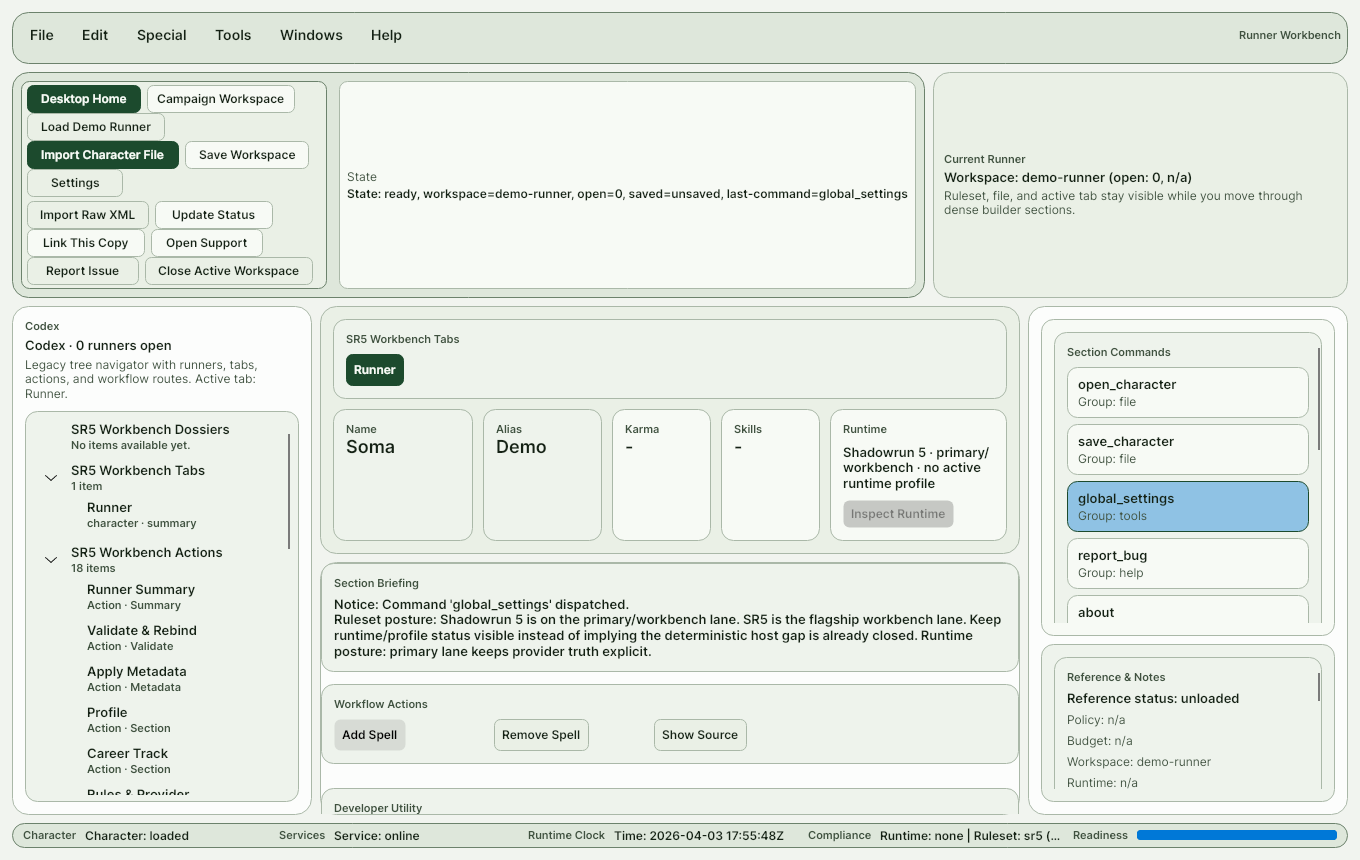
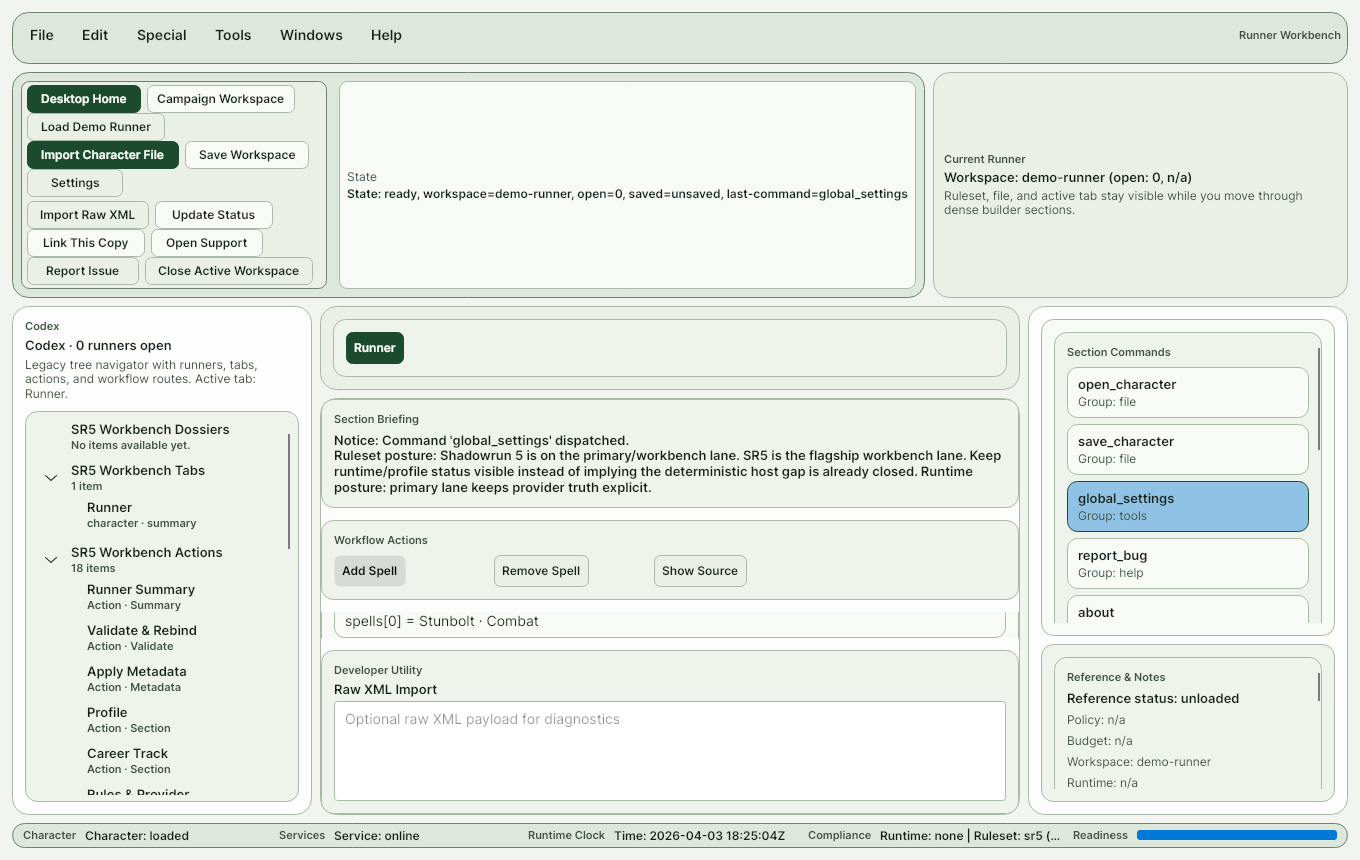
harden desktop gate registry-root resolution and screenshot evidence copy

diff --git a/Chummer.Tests/Compliance/MigrationComplianceTests.cs b/Chummer.Tests/Compliance/MigrationComplianceTests.cs
@@ -3377,7 +3377,10 @@ public class MigrationComplianceTests
 
         StringAssert.Contains(
             executableGateScriptText,
-            "canonical_release_channel_path=\"/docker/chummercomplete/chummer-hub-registry/.codex-studio/published/RELEASE_CHANNEL.generated.json\"");
+            "hub_registry_root=\"${CHUMMER_HUB_REGISTRY_ROOT:-$(\"$repo_root/scripts/resolve-hub-registry-root.sh\" 2>/dev/null || true)}\"");
+        StringAssert.Contains(
+            executableGateScriptText,
+            "canonical_release_channel_path=\"${hub_registry_root:+$hub_registry_root/.codex-studio/published/RELEASE_CHANNEL.generated.json}\"");
         StringAssert.Contains(executableGateScriptText, "release_channel_path_default");
         StringAssert.Contains(
             executableGateScriptText,
@@ -3467,7 +3470,10 @@ public class MigrationComplianceTests
 
         StringAssert.Contains(
             macosGateScriptText,
-            "CANONICAL_RELEASE_CHANNEL_PATH=\"/docker/chummercomplete/chummer-hub-registry/.codex-studio/published/RELEASE_CHANNEL.generated.json\"");
+            "HUB_REGISTRY_ROOT=\"${CHUMMER_HUB_REGISTRY_ROOT:-$(\"$REPO_ROOT/scripts/resolve-hub-registry-root.sh\" 2>/dev/null || true)}\"");
+        StringAssert.Contains(
+            macosGateScriptText,
+            "CANONICAL_RELEASE_CHANNEL_PATH=\"${HUB_REGISTRY_ROOT:+$HUB_REGISTRY_ROOT/.codex-studio/published/RELEASE_CHANNEL.generated.json}\"");
         StringAssert.Contains(
             macosGateScriptText,
             "RELEASE_CHANNEL_PATH=\"${CHUMMER_MACOS_RELEASE_CHANNEL_PATH:-$RELEASE_CHANNEL_PATH_DEFAULT}\"");
@@ -3487,8 +3493,9 @@ public class MigrationComplianceTests
         StringAssert.Contains(macosGateScriptText, "CHUMMER_MACOS_STARTUP_SMOKE_MAX_AGE_SECONDS");
         StringAssert.Contains(macosGateScriptText, "CHUMMER_DESKTOP_STARTUP_SMOKE_MAX_AGE_SECONDS");
         StringAssert.Contains(macosGateScriptText, "release_channel_path.parent / \"startup-smoke\"");
-        StringAssert.Contains(macosGateScriptText, "Path(\"/docker/chummercomplete/chummer-hub-registry/.codex-studio/published/startup-smoke\")");
-        StringAssert.Contains(macosGateScriptText, "Path(\"/docker/chummercomplete/chummer-hub-registry/Docker/Downloads/startup-smoke\")");
+        StringAssert.Contains(macosGateScriptText, "hub_registry_root_arg = str(sys.argv[9] or \"\").strip()");
+        StringAssert.Contains(macosGateScriptText, "hub_registry_root / \".codex-studio\" / \"published\" / \"startup-smoke\"");
+        StringAssert.Contains(macosGateScriptText, "hub_registry_root / \"Docker\" / \"Downloads\" / \"startup-smoke\"");
         StringAssert.Contains(macosGateScriptText, "startup_smoke_receipt_arg,");
         StringAssert.Contains(macosGateScriptText, "installer_candidate_paths");
         StringAssert.Contains(macosGateScriptText, "installer_from_primary_shelf");
@@ -3509,6 +3516,8 @@ public class MigrationComplianceTests
 
         StringAssert.Contains(linuxGateScriptText, "APP_KEY_OVERRIDE=\"${CHUMMER_LINUX_DESKTOP_EXIT_GATE_APP_KEY:-}\"");
         StringAssert.Contains(linuxGateScriptText, "RID_OVERRIDE=\"${CHUMMER_LINUX_DESKTOP_EXIT_GATE_RID:-}\"");
+        StringAssert.Contains(linuxGateScriptText, "HUB_REGISTRY_ROOT=\"${CHUMMER_HUB_REGISTRY_ROOT:-$(\"$REPO_ROOT/scripts/resolve-hub-registry-root.sh\" 2>/dev/null || true)}\"");
+        StringAssert.Contains(linuxGateScriptText, "CANONICAL_RELEASE_CHANNEL_PATH=\"${HUB_REGISTRY_ROOT:+$HUB_REGISTRY_ROOT/.codex-studio/published/RELEASE_CHANNEL.generated.json}\"");
         StringAssert.Contains(linuxGateScriptText, "python3 - \"$RELEASE_CHANNEL_PATH\" \"$APP_KEY_OVERRIDE\" \"$RID_OVERRIDE\"");
         StringAssert.Contains(linuxGateScriptText, "mapfile -t RELEASE_PROMOTED_TUPLE");
         StringAssert.Contains(linuxGateScriptText, "APP_KEY=\"${APP_KEY_OVERRIDE:-${RELEASE_PROMOTED_TUPLE[0]:-avalonia}}\"");
@@ -3529,6 +3538,11 @@ public class MigrationComplianceTests
 
         StringAssert.Contains(windowsGateScriptText, "CHUMMER_WINDOWS_STARTUP_SMOKE_MAX_AGE_SECONDS");
         StringAssert.Contains(windowsGateScriptText, "CHUMMER_DESKTOP_STARTUP_SMOKE_MAX_AGE_SECONDS");
+        StringAssert.Contains(windowsGateScriptText, "HUB_REGISTRY_ROOT=\"${CHUMMER_HUB_REGISTRY_ROOT:-$(\"$REPO_ROOT/scripts/resolve-hub-registry-root.sh\" 2>/dev/null || true)}\"");
+        StringAssert.Contains(windowsGateScriptText, "RELEASE_CHANNEL_PATH_DEFAULT");
+        StringAssert.Contains(windowsGateScriptText, "hub_registry_root_arg = str(sys.argv[11] or \"\").strip()");
+        StringAssert.Contains(windowsGateScriptText, "hub_registry_root / \".codex-studio\" / \"published\" / \"startup-smoke\"");
+        StringAssert.Contains(windowsGateScriptText, "hub_registry_root / \"Docker\" / \"Downloads\" / \"startup-smoke\"");
         StringAssert.Contains(windowsGateScriptText, "CHUMMER_WINDOWS_STARTUP_SMOKE_RECEIPT_PATH");
         StringAssert.Contains(windowsGateScriptText, "startup-smoke-{expected_head}-{expected_rid}.receipt.json");
         StringAssert.Contains(windowsGateScriptText, "expected_rid.startswith(\"win-\")");
@@ -4868,8 +4882,9 @@ public class MigrationComplianceTests
         StringAssert.Contains(workspaceStripCodeText, "public void SetState(WorkspaceStripState state)");
         StringAssert.Contains(workspaceStripCodeText, "SetWorkspaceText(state.WorkspaceText);");
         StringAssert.Contains(summaryHeaderCodeText, "public void SetState(SummaryHeaderState state)");
-        StringAssert.Contains(summaryHeaderCodeText, "SetValues(state.Name, state.Alias, state.Karma, state.Skills, state.RuntimeSummary, state.CanInspectRuntime);");
-        StringAssert.Contains(summaryHeaderCodeText, "RuntimeInspectButton.IsEnabled = canInspectRuntime;");
+        StringAssert.Contains(summaryHeaderCodeText, "SetNavigationTabs(state.NavigationTabsHeading, state.NavigationTabs, state.ActiveTabId);");
+        Assert.IsFalse(summaryHeaderCodeText.Contains("SetValues(", StringComparison.Ordinal));
+        Assert.IsFalse(summaryHeaderCodeText.Contains("RuntimeInspectButton", StringComparison.Ordinal));
         StringAssert.Contains(statusStripCodeText, "public void SetState(StatusStripState state)");
         StringAssert.Contains(statusStripCodeText, "SetValues(");
         StringAssert.Contains(statusFormatterText, "public static class ShellStatusTextFormatter");
@@ -4926,8 +4941,11 @@ public class MigrationComplianceTests
         StringAssert.Contains(xamlText, "<controls:CoachSidecarControl");
         StringAssert.Contains(xamlText, "<controls:SummaryHeaderControl");
         StringAssert.Contains(xamlText, "<controls:StatusStripControl");
-        StringAssert.Contains(summaryHeaderXamlText, "Text=\"Runtime\"");
-        StringAssert.Contains(summaryHeaderXamlText, "x:Name=\"RuntimeValueText\"");
+        StringAssert.Contains(summaryHeaderXamlText, "x:Name=\"LoadedRunnerTabStripBorder\"");
+        StringAssert.Contains(summaryHeaderXamlText, "x:Name=\"LoadedRunnerTabStripPanel\"");
+        Assert.IsFalse(summaryHeaderXamlText.Contains("RuntimeValueText", StringComparison.Ordinal));
+        Assert.IsFalse(summaryHeaderXamlText.Contains("RuntimeInspectButton", StringComparison.Ordinal));
+        Assert.IsFalse(summaryHeaderXamlText.Contains("NameValueText", StringComparison.Ordinal));
         StringAssert.Contains(menuControlText, "Classes=\"menu-button\"");
         StringAssert.Contains(xamlText, "Button.menu-button.active-menu");
     }
